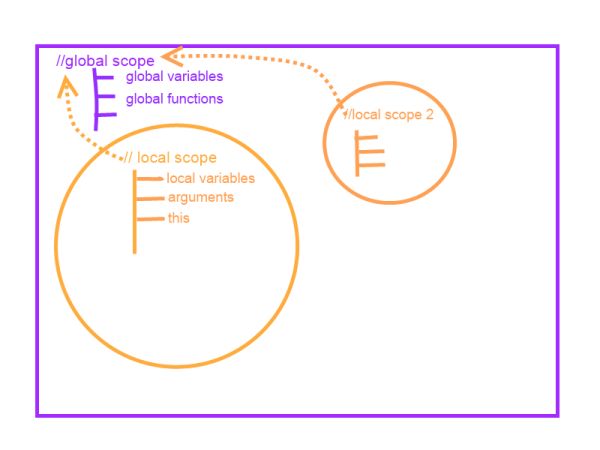
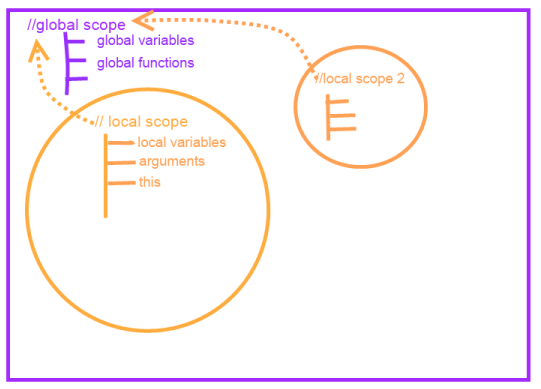
added local scope

Changed region(s): [[0.0, 0.0, 1.0, 0.9871], [0.1479, 0.6787, 0.4732, 0.8638], [0.4732, 0.617, 0.5028, 0.6787]]

diff --git a/index.html b/index.html
@@ -643,14 +643,21 @@ function foo(){
 							<a href="http://davidshariff.com/blog/what-is-the-execution-context-in-javascript/">executiuon context</a>
 						</section>
 						<section>
-							
-							<pre><code>
-var a = 2; 
+							<h4>global scope</h4>
+							<pre><code>var a = 2; 
 function b(){
-	console.log(a);
-}
-							</code></pre>
+   console.log(a);
+}							</code></pre>
 							<img class="halfScreenImage" src="images/globalScope.png" alt="">
+						</section>
+						<section>
+							<h4>local scope</h4>
+							<pre><code>var a = 2; 
+function b(){
+   console.log(a);
+}
+b();							</code></pre>
+							<img src="images/localScope.png" alt="">
 						</section>
 						<section>
 							<h2>execution context</h2>
